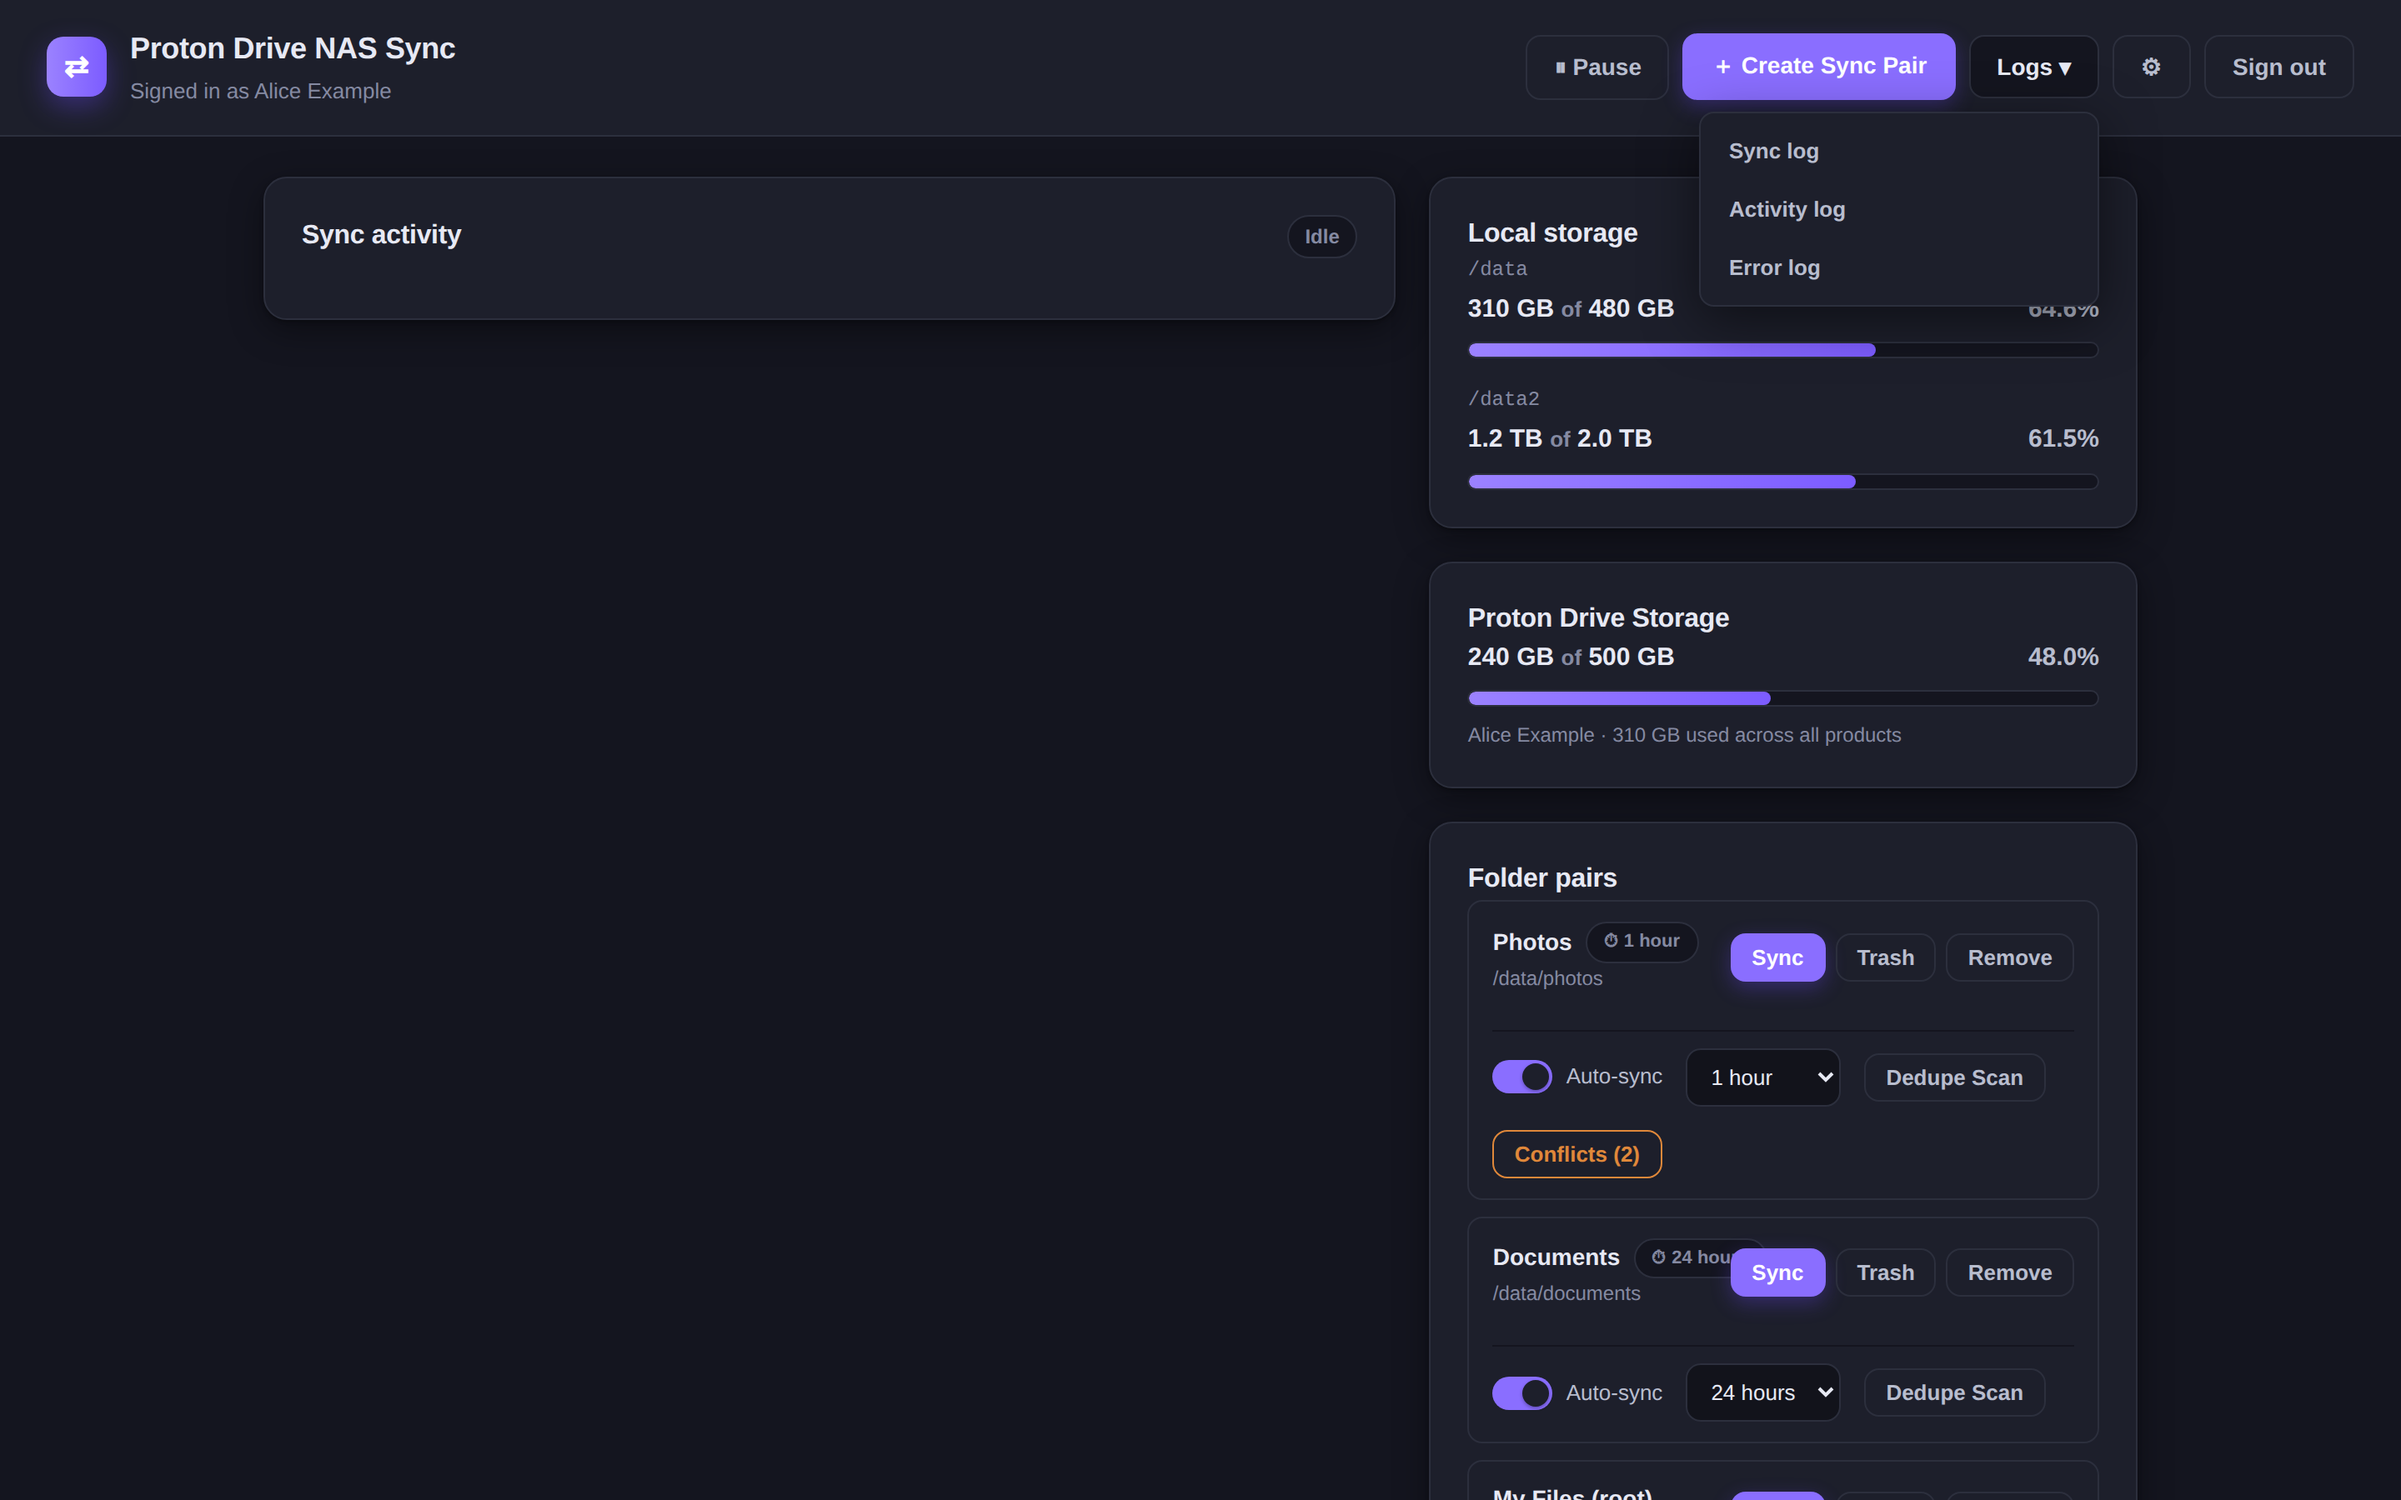
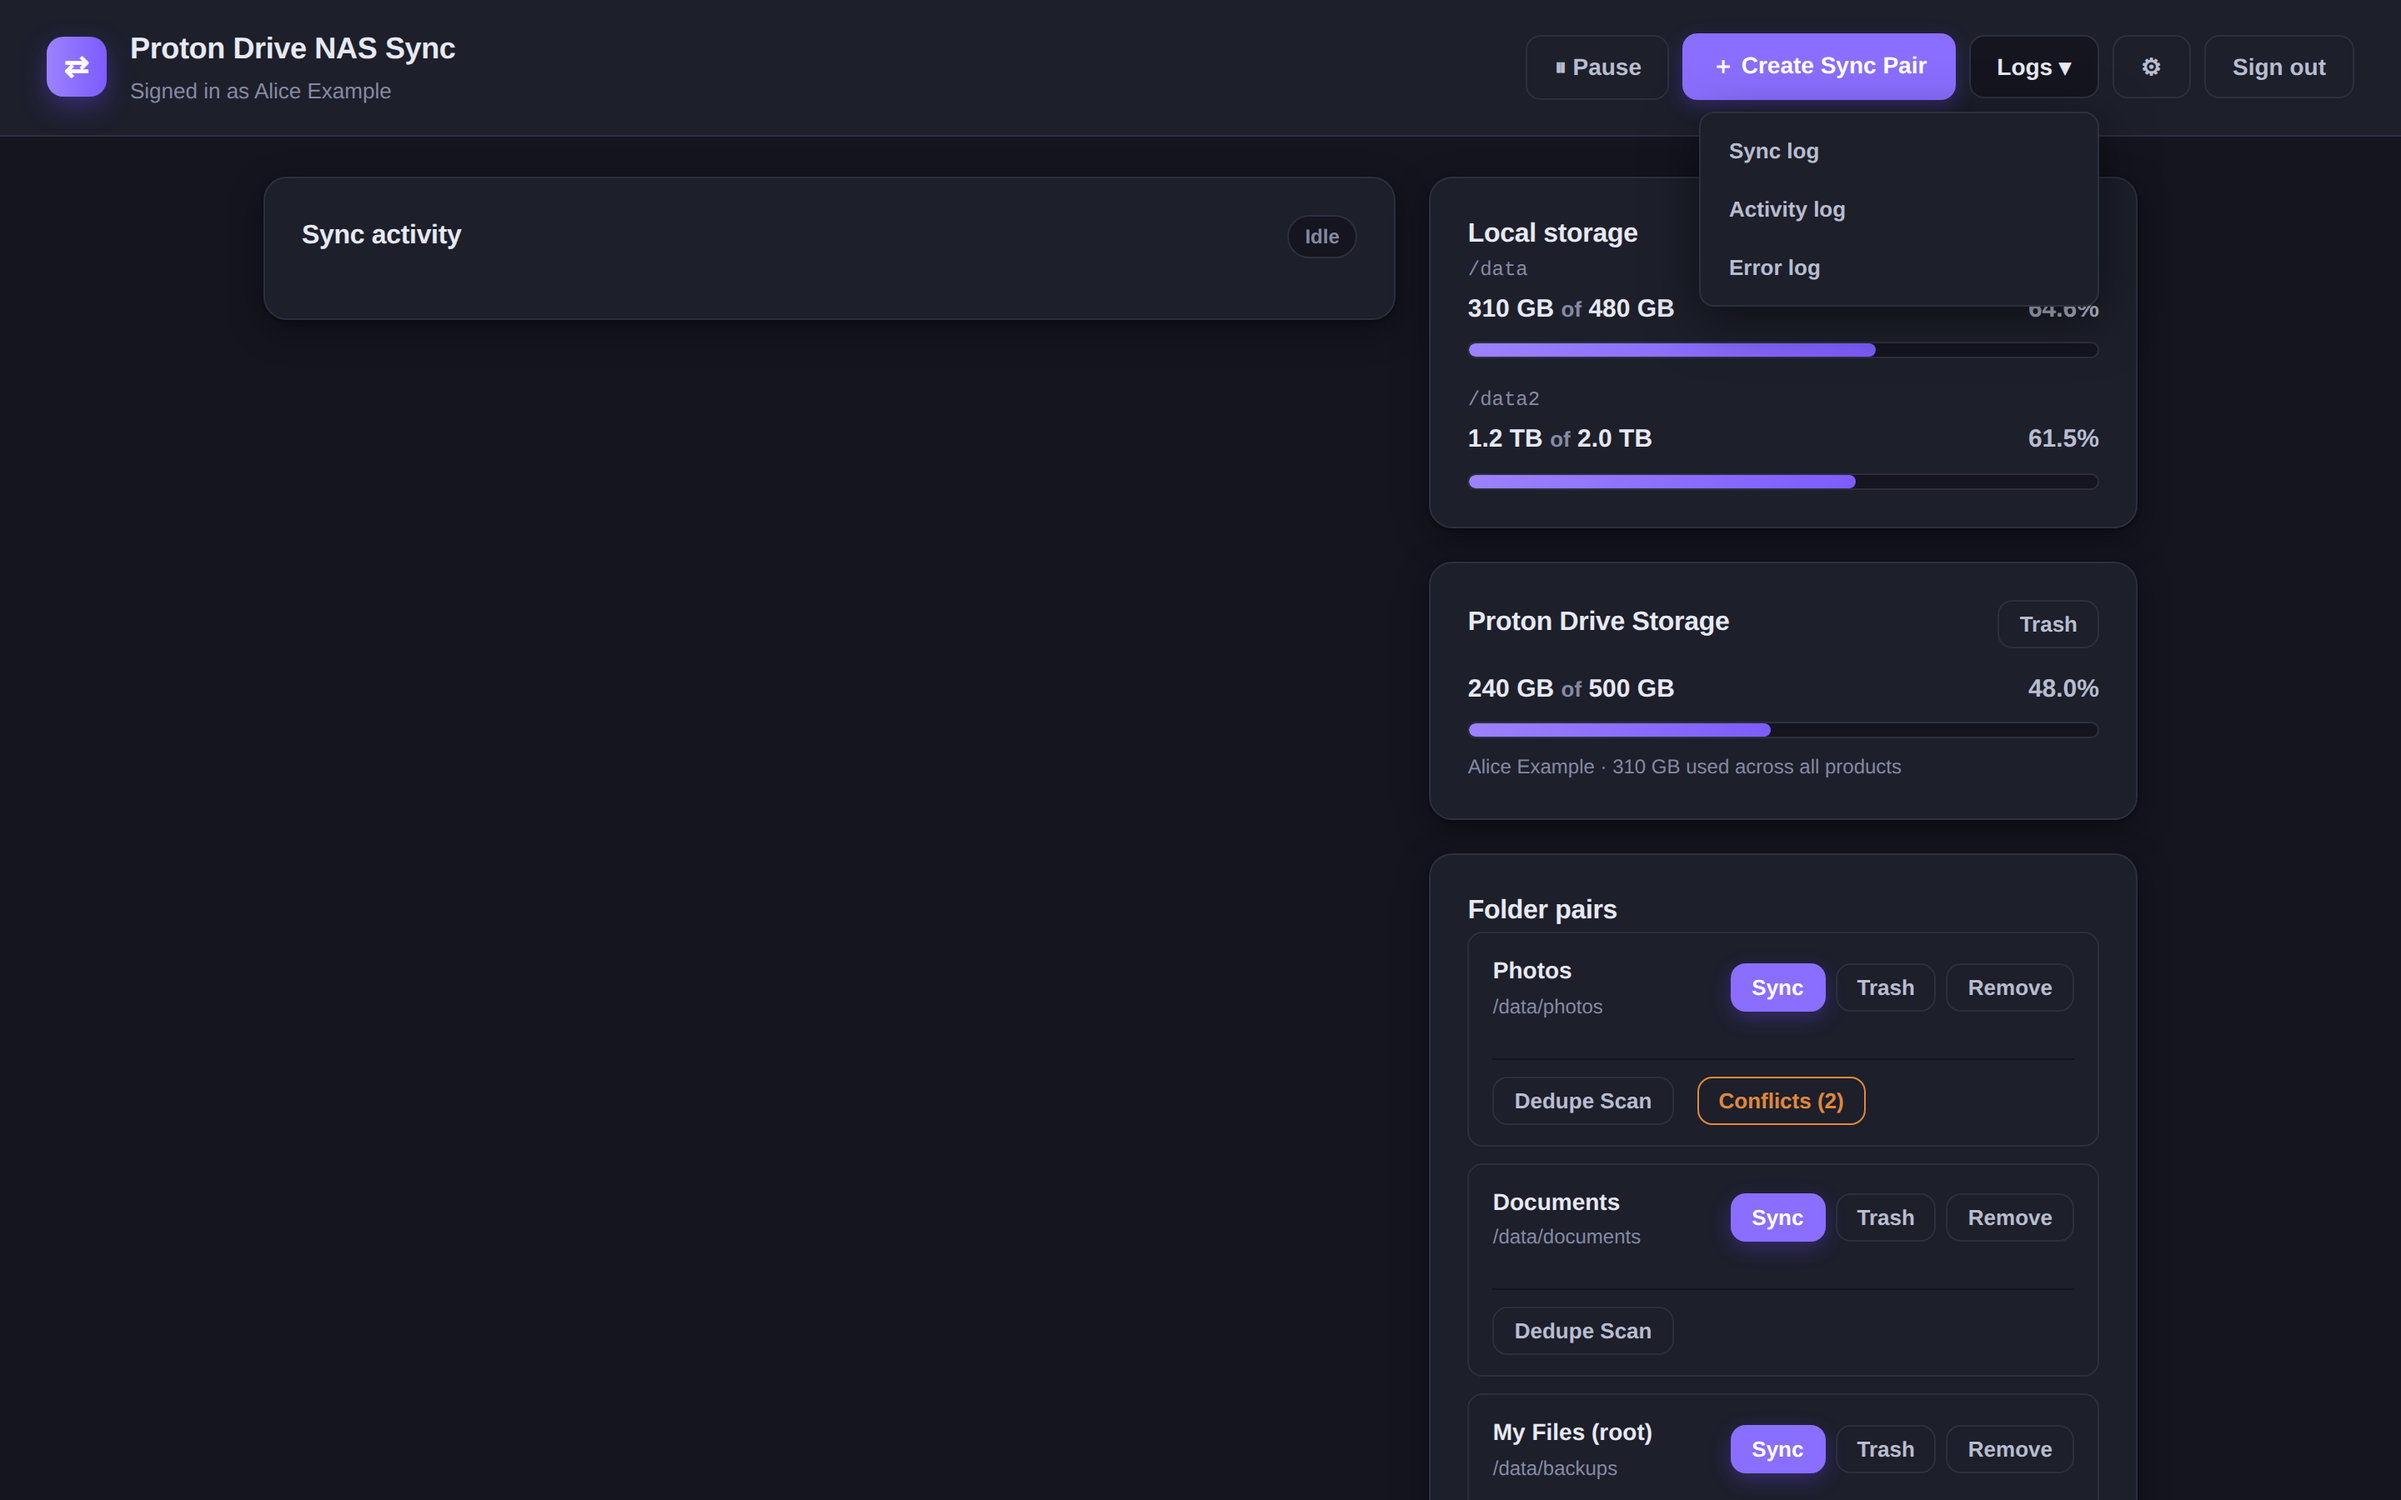
docs: refresh screenshots + guides for real-time sync and Drive trash view

diff --git a/docs/USER_GUIDE.md b/docs/USER_GUIDE.md
@@ -54,30 +54,17 @@ the other).
    volume; a path inside the container itself is rejected with a warning.
 3. **Proton Drive folder**: pick an existing Drive folder, or **My Files (entire
    drive)** to sync the whole drive.
-4. **Sync schedule**: **Manual** or **Auto-sync** (see below).
-5. Click **Create pair**.
+4. Click **Create pair**.
 
 ![Create sync pair](screenshots/07-add-pair-folder-picker.png)
 
-### Manual vs Auto-sync
+### Real-time sync
 
-- **Manual**: the pair only syncs when you click its **Sync** button.
-- **Auto-sync**: the pair syncs automatically on the interval you choose.
-
-| Frequency | Interval |
-|---|---|
-| 1 min | 60 seconds |
-| 15 min | 15 minutes |
-| 30 min | 30 minutes |
-| 1 hour | 1 hour |
-| 6 hours | 6 hours |
-| 12 hours | 12 hours |
-| 24 hours | 24 hours |
-| Weekly | 7 days |
-| Monthly | 30 days |
-
-Change a pair's schedule any time with the **Auto-sync** toggle and the frequency
-dropdown on its row.
+Every pair syncs in real time. The engine watches the Proton Drive event feed and
+stat-scans the local folder on a short interval, mirroring additions, edits, and
+deletions as soon as they are detected. The **Sync** button on a pair runs an
+immediate sync on demand, and the top-bar **⏸ Pause** is the only "don't sync"
+control.
 
 ---
 
@@ -213,6 +200,26 @@ The **Proton Drive Storage** card shows how much of your Proton Drive quota you'
   message appears under it.
 
 ![Storage warning](screenshots/18-storage-warning.png)
+
+The card's **Trash** button opens your Proton Drive trash (below).
+
+## Proton Drive trash
+
+The **Proton Drive Storage** card's **Trash** button lists everything currently in
+your Proton Drive trash:
+
+![Proton Drive trash](screenshots/24-drive-trash.png)
+
+Proton Drive stores only a trashed item's name (not its full path), so the list
+shows each item's name and type. From here you can:
+
+- **Restore**: return an item to its original folder. If it is inside a synced
+  pair, the next sync re-downloads it.
+- **Delete**: permanently remove a single item.
+- **Empty trash**: permanently delete everything in the trash.
+
+Delete and Empty trash are irreversible - that is exactly why they ask for
+confirmation.
 
 ---
 

diff --git a/docs/FAQ.md b/docs/FAQ.md
@@ -75,7 +75,8 @@ in. (That's a snapshot of your *setup*, not your files.)
 - **Two mounted volumes.** `/config` (state DB, encrypted session, pair config)
   and `/data` (the synced tree). Updating the container never loses state.
 - **Polling, not push.** Proton Drive exposes no webhook for remote changes, so
-  the scheduler polls on the configured interval.
+  the scheduler polls the Drive event feed and stat-scans local folders on a
+  short interval (default 30 s).
 
 ---
 
@@ -131,7 +132,7 @@ change. The SDK's changelog is the trigger that tells us the swap is due.
 
 ## How does the sync engine work?
 
-Each folder pair is a three-way reconcile, run on a schedule:
+Each folder pair is a three-way reconcile, run continuously in real time:
 
 1. **Walk** both trees: the local NAS folder and the Proton Drive folder ~
    using the SDK's listing calls.
@@ -213,8 +214,9 @@ Be aware of these before relying on it:
 
 - **Beta.** Milestones M0–M6 are complete and it's in daily use, but treat it as
   beta: test against a throwaway Proton account first.
-- **Not real-time.** There is no push/webhook from Proton, so sync is
-  poll-based; the shortest interval is 1 minute.
+- **Poll-based real time.** There is no push/webhook from Proton, so sync polls
+  the event feed and local folders every ~30 seconds - near real time, not
+  instant.
 - **Whole-file transfer.** A changed file is re-transferred in full: there is
   no block-level (rsync-style) delta.
 - **One account per instance.** A container syncs a single Proton account.
@@ -227,7 +229,6 @@ Be aware of these before relying on it:
   **Conflicts** panel; there is no content merge.
 - **Dedupe is per-pair and local-only.** It finds duplicates within one pair's
   local folder, on demand: not across pairs, and not on the Drive side.
-- **"Monthly" means ~30 days**, a fixed interval, not a calendar month.
 - **Human verification is manual.** Proton's CAPTCHA challenge (rare, usually
   one-time per account) requires a one-off browser step.
 - **Requires Docker.** Runs as a container with `/config` and `/data` mounts.

diff --git a/docs/DEPLOY.md b/docs/DEPLOY.md
@@ -79,9 +79,9 @@ services:
 
 1. Open the UI and sign in with your Proton account.
 2. **Create Sync Pair** (top bar): pick the local folder (absolute path under
-   `/data`) and a Proton Drive folder, then choose **Manual** or an **Auto-sync**
-   schedule.
-3. **Sync**: watch progress (files processed, bytes, network rate) in real time.
+   `/data`) and a Proton Drive folder. The pair starts syncing in real time
+   automatically - no schedule to set.
+3. Watch progress (files processed, bytes, network rate) in the dashboard.
 
 For a full walkthrough with screenshots see [SETUP.md](SETUP.md); for a reference
 of every feature and option see [USER_GUIDE.md](USER_GUIDE.md).
@@ -108,6 +108,8 @@ are never written to disk. On restart the app resumes the session automatically.
 | `PDN_LOG_SKIPS` | `off` | Set `on` to write per-file `[skip]` lines (unchanged files) to `sync.log` for troubleshooting. Default keeps the log small and speeds up large-tree reconciles. |
 | `PDN_LOCAL_PRUNE` | `on` | Prune the local stat-scan with directory mtimes: each tick stats only directories and descends into the ones whose mtime changed (add/remove/rename), skipping per-file stats for unchanged folders. `off` restores the always-full scan. |
 | `PDN_FULL_SCAN_INTERVAL` | `300` | Seconds between full local scans while `PDN_LOCAL_PRUNE` is on. A full scan re-stats every file, so it is the only thing that catches in-place content edits (a directory mtime does not change on a content-only write). `0` disables the periodic scan. |
+| `PDN_REALTIME_INTERVAL` | `30` | Seconds between sync ticks (the event-feed poll + local stat-scan loop). Clamped to 10-60. |
+| `PDN_DELTA` | `on` | Set `off` to disable the surgical delta engine and full-walk every pair each tick (the original behavior). |
 
 The default `disk` cache writes each Drive entity to a SQLite database on disk
 and keeps only a bounded `PDN_CACHE_LRU_MAX`-sized slice in RAM, so memory stays

diff --git a/docs/SETUP.md b/docs/SETUP.md
@@ -144,14 +144,15 @@ This is your home base:
 ![Dashboard (dark)](screenshots/06-dashboard.png)
 
 - **Left: Sync activity:** live progress bars (files processed, bytes, and
-  network rate), the last sync
-  summary, and a status badge (Idle / Syncing / Paused).
+  network rate), the latest sync summary, and a status badge (Idle / Syncing /
+  Paused).
 - **Right: Local storage:** each data volume mounted into the container, with
   used/total and a fill bar.
 - **Right: Proton Drive Storage:** your Proton Drive usage, with a warning when
   space runs low.
 - **Right: Folder pairs:** the folders you're syncing, with per-pair Sync / Trash /
-  Remove actions, an Auto-sync toggle, and a Dedupe Scan button.
+  Remove actions and a Dedupe Scan button. Every pair syncs automatically in
+  real time - there is no schedule to set.
 
 The top bar holds the global controls:
 
@@ -180,10 +181,8 @@ folder on the NAS and the matching Proton Drive folder:
   to the container itself.
 - **Proton Drive folder**: pick an existing Drive folder, or **My Files (entire
   drive)** to sync the whole drive.
-- **Sync schedule**: either **Manual** (sync only when you click **Sync**) or
-  **Auto-sync** on a schedule, with a frequency from **1 min** through **Monthly**.
-
-Click **Create pair**, then **Sync** to run it immediately.
+Click **Create pair**. The pair starts syncing automatically in real time; the
+**Sync** button on its row runs an immediate sync on demand.
 
 > **Deletion safety.** Deletions are trashed before being removed, and if a sync
 > would delete more than a safety threshold of tracked files (for example, because

diff --git a/ARCHITECTURE.md b/ARCHITECTURE.md
@@ -42,8 +42,8 @@ Proton Drive. It is written in TypeScript on Node.js.
    in the Auth/Session layer here.
 2. **The SDK has no Sync module yet.** The bidirectional sync engine is built
    on the SDK's client primitives (list, upload, download, move, trash), with
-   change detection by interval polling: Proton Drive exposes no push/webhook
-   for remote changes.
+   change detection by polling the Drive event feed and stat-scanning the local
+   tree: Proton Drive exposes no push/webhook for remote changes.
 3. **The crypto model is changing.** Proton Drive moves to a new cryptographic
    model around end of 2026 / early 2027. Clients that only implement the old
    model will stop interoperating until they upgrade.
@@ -92,9 +92,11 @@ NAS path  →  Drive link ID  →  revision / content hash / mtime
 
 Change detection:
 
-The engine polls on the configured interval: there is no server-side push from
-Proton, and no filesystem watcher (a watcher would still miss remote Drive-side
-changes). Each cycle it walks both trees and diffs them against the state DB:
+The engine polls the Drive event feed and stat-scans the local tree on a short
+interval: there is no server-side push from Proton, and no filesystem watcher (a
+watcher would still miss remote Drive-side changes). Each cycle it maps Drive
+events to their pair and diffs against the state DB, full-walking only when the
+feed is opaque or a source is unavailable:
 
 - **Local (NAS) side**: a file's size + mtime are compared first; only if they
   differ is the file re-hashed. Unchanged files reuse the stored hash (no

diff --git a/README.md b/README.md
@@ -24,9 +24,13 @@ and Proton Drive.
 - **Web UI**: Proton-style login (SRP + optional 2FA + optional mailbox
   password), folder-pair manager, and a live sync dashboard with progress bars
   (files processed + bytes + network rate), storage usage, and low-space warnings.
-- **Flexible schedules**: manual or auto-sync, from every 1 minute up to monthly.
+- **Real-time sync**: every pair syncs continuously - additions, edits, and
+  deletions on either side are mirrored automatically, with a manual **Sync**
+  button for an immediate run.
 - **Duplicate-file scan**: find and recycle duplicate files within a pair, with a
   minimum-size filter and an ignore list.
+- **Proton Drive trash view**: list, restore, permanently delete, and empty the
+  items in your Proton Drive trash from the dashboard.
 - **Configurable concurrency**: 1–4 parallel transfers.
 - **Encrypted-at-rest credentials**: only an AES-256-GCM encrypted session blob
   is persisted; passwords are never stored.
@@ -72,8 +76,8 @@ that `@protontech/crypto` depends on).
 
 ## Status
 
-M0–M6 complete: auth spike → file ops → encrypted session → state DB + backup/
-restore → bidirectional sync + progress UI → Docker packaging. Usable as a
+The feature set (auth, bidirectional sync, event-driven real-time sync,
+backup/restore, dedupe, Drive trash, and Docker packaging) is complete. Usable as a
 personal backup/sync tool; treat as beta, test against a throwaway Proton
 account first.
 
